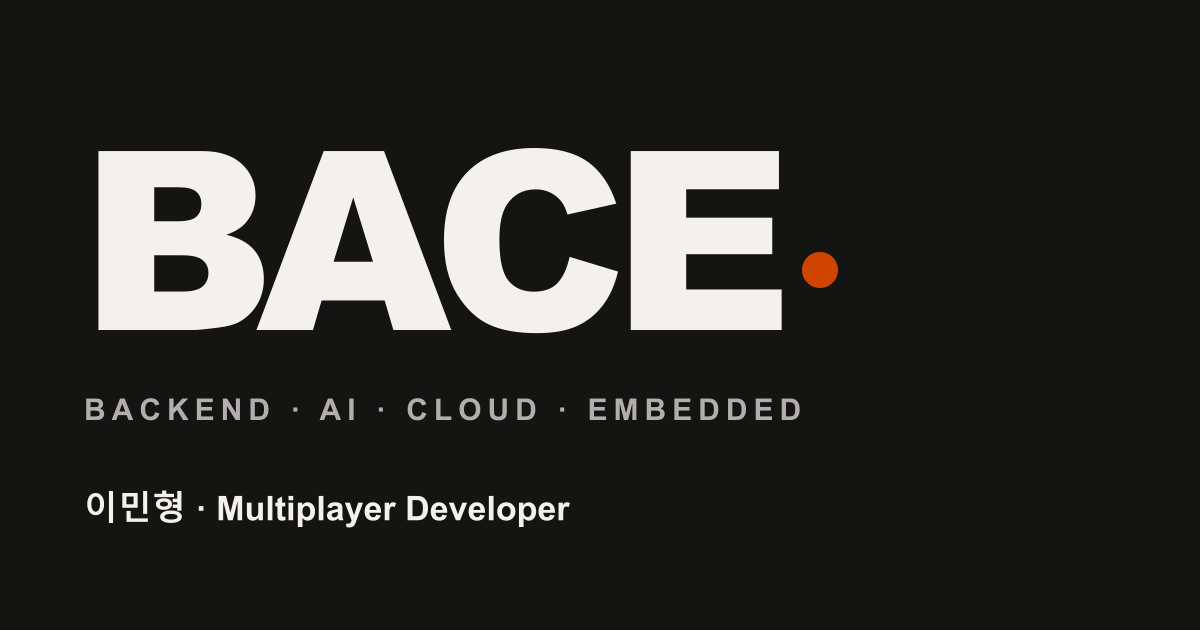
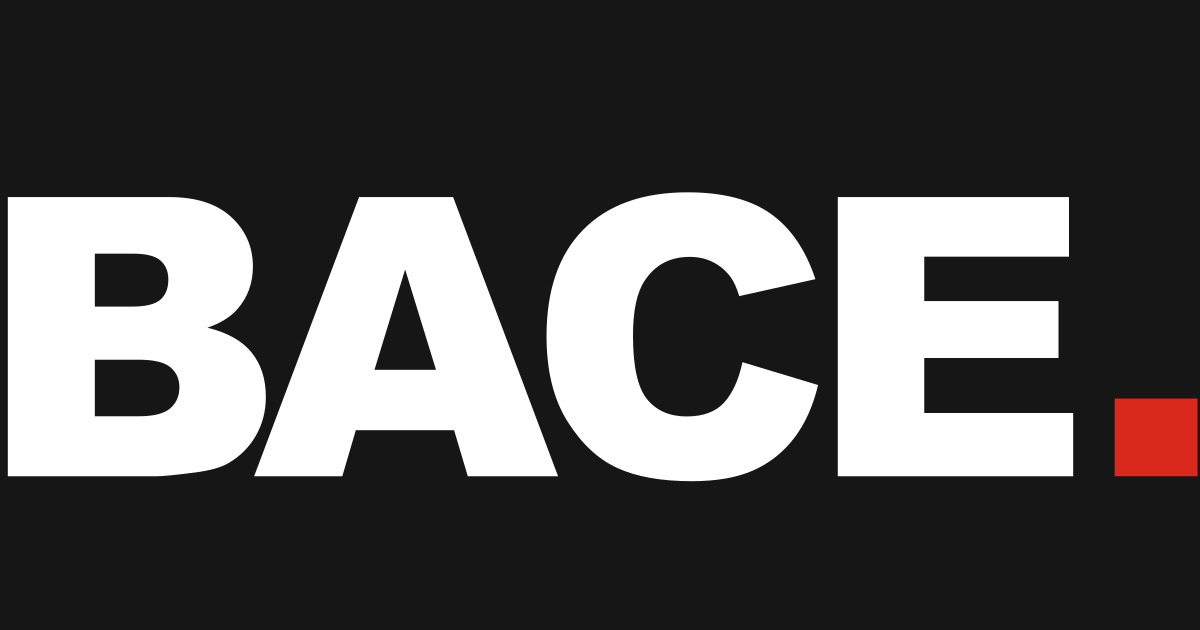
Thumbnail is just BACE., align field headings, left-align BACE on mobile
- The share image drops every other line and fills the frame with BACE.,
  the period in red
- Page and share title are now BACE. with 멀티플레이어 이민형 포트폴리오 under it
- The field number and name share a baseline again; they were aligned by box
  bottom instead, which left 01 sitting low next to Backend. The number also
  scales down with the name on narrow screens
- On mobile the BACE stack reads left-aligned against the red rule instead
  of centering each row

diff --git a/app/globals.css b/app/globals.css
@@ -223,9 +223,8 @@ html.intro-lock, html.intro-lock body { overflow: hidden; }
   .hero-copy { text-align: center; }
   .hero-copy .hero-sub { margin-left: auto; margin-right: auto; }
   .hero-face { order: -1; }
-  .bace-stack { padding-left: 0; margin: 0 auto 28px; display: inline-block; }
-  .bace-stack::before { display: none; }
-  .bace-row { justify-content: center; }
+  .bace-stack { padding-left: 20px; margin: 0 auto 28px; display: inline-block; text-align: left; }
+  .bace-row { justify-content: flex-start; }
   .hero-sub { margin-left: auto !important; margin-right: auto !important; }
   .hero-ctas { justify-content: center; }
 }
@@ -343,6 +342,7 @@ section[id], span[id], footer[id] { scroll-margin-top: 92px; }
 .pstage.pstage-flow .pstage-dots { display: none; }
 .pstage.pstage-flow .pscene-row { grid-template-columns: 1fr; }
 .pstage.pstage-flow .pscene-name { font-size: 40px; }
+.pstage.pstage-flow .pscene-num { font-size: 40px; }
 
 /* 프로젝트 카드 하단 진행 상태 */
 .pcard-foot { margin-top: auto; padding-top: 14px; display: flex; align-items: center; gap: 10px; }
@@ -352,7 +352,7 @@ section[id], span[id], footer[id] { scroll-margin-top: 92px; }
 
 /* 장면 배경 레이어 · 마스크 · 구분선 */
 .pscene-bg { position: absolute; left: 50%; top: 50%; width: 920px; height: 920px; margin: -460px 0 0 -460px; border-radius: 50%; background: radial-gradient(circle, color-mix(in srgb, var(--cat) 22%, transparent) 0%, transparent 64%); pointer-events: none; will-change: transform, opacity; }
-.pscene-mask { display: inline-block; vertical-align: bottom; }
+.pscene-mask { display: inline-block; vertical-align: baseline; }
 .pscene-rule { flex: 1; height: 3px; border-radius: 3px; background: linear-gradient(90deg, var(--cat), transparent); }
 .pscene-inner { will-change: transform; }
 .pcard { will-change: transform, opacity, clip-path; }

diff --git a/app/layout.tsx b/app/layout.tsx
@@ -2,23 +2,22 @@ import type { Metadata } from "next";
 import "./globals.css";
 
 export const metadata: Metadata = {
-  title: "이민형 · BACE",
-  description:
-    "Backend · AI · Cloud · Embedded — 네 영역을 모두 아우르는 멀티플레이어 개발자 이민형의 포트폴리오",
+  title: "BACE.",
+  description: "멀티플레이어 이민형 포트폴리오",
   metadataBase: new URL("https://koreamax.github.io"),
   openGraph: {
-    title: "BACE — 이민형",
-    description: "Backend · AI · Cloud · Embedded. 멀티플레이어 개발자 이민형의 포트폴리오",
+    title: "BACE.",
+    description: "멀티플레이어 이민형 포트폴리오",
     url: "https://koreamax.github.io",
-    siteName: "BACE",
-    images: [{ url: "/og.png", width: 1200, height: 630, alt: "BACE" }],
+    siteName: "BACE.",
+    images: [{ url: "/og.png", width: 1200, height: 630, alt: "BACE." }],
     locale: "ko_KR",
     type: "website",
   },
   twitter: {
     card: "summary_large_image",
-    title: "BACE — 이민형",
-    description: "Backend · AI · Cloud · Embedded. 멀티플레이어 개발자 이민형의 포트폴리오",
+    title: "BACE.",
+    description: "멀티플레이어 이민형 포트폴리오",
     images: ["/og.png"],
   },
 };
